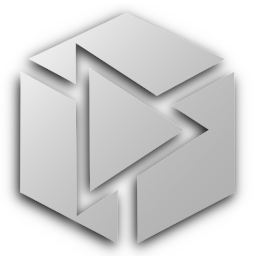
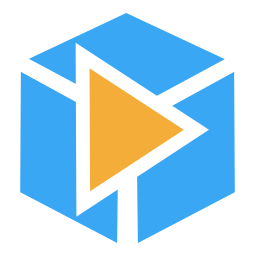
アイコンの更新、Runtimeの設定項目だけ追加

diff --git a/Runtime/EmotePrefab.cs b/Runtime/EmotePrefab.cs
@@ -1,7 +1,11 @@
 // <copyright file="EmotePrefab.cs"></copyright>
 
+#if UNITY_EDITOR
+
 using UnityEditor;
 using UnityEngine;
+using System.Collections.Generic;
+using VRC.SDK3.Dynamics.PhysBone.Components;
 
 namespace com.github.pandrabox.emoteprefab.runtime
 {
@@ -12,18 +16,21 @@ namespace com.github.pandrabox.emoteprefab.runtime
     [AddComponentMenu("Pan/EmotePrefab")]
     public class EmotePrefab : MonoBehaviour, VRC.SDKBase.IEditorOnly
     {
+        public bool IsOneShot;
+        public bool IsEmote;
+        public bool IsAFK;
+        public bool ViewAdvancedOptions;
+        public bool AnimateAllPhysBones;
+        public List<VRCPhysBone> AnimatePhysBones;
+        public bool ShrinkAllPhysBones;
+        public List<VRCPhysBone> ShrinkPhysBones;
+        public TransitionInfo ExitTransitionInfo;
+        public AnimationClip FakeWriteDefaultClip;
         [SerializeField]
         private AnimationClip _motion;
         [SerializeField]
         private string _name;
-        [SerializeField]
-        private bool _isOneShot;
-        [SerializeField]
-        private bool _isEmote;
-        [SerializeField]
-        private bool _isAFK;
 
-#if UNITY_EDITOR
         /// <summary>
         /// Emoteのファイル　設定時、名称とループ設定を自動初期化
         /// </summary>
@@ -39,13 +46,13 @@ namespace com.github.pandrabox.emoteprefab.runtime
                     if (_motion != null)
                     {
                         Name = _motion.name.Replace("proxy_stand_", string.Empty).Replace("proxy_", string.Empty);
-                        _isOneShot = !_motion.isLooping;
-                        _isEmote = true;
+                        IsOneShot = !_motion.isLooping;
+                        IsEmote = true;
                     }
                     else
                     {
                         Name = string.Empty;
-                        _isOneShot = false;
+                        IsOneShot = false;
                     }
 
                     EditorUtility.SetDirty(this);
@@ -70,80 +77,11 @@ namespace com.github.pandrabox.emoteprefab.runtime
             }
         }
 
-        /// <summary>
-        /// ExpressionMenuから選択時1回実行後終了するEmoteならばtrue, その他(ループやホールド)ならばFalse
-        /// </summary>
-        public bool IsOneShot
-        {
-            get => _isOneShot;
-            set
-            {
-                if (_isOneShot != value)
-                {
-                    _isOneShot = value;
-                    EditorUtility.SetDirty(this);
-                }
-            }
-        }
 
-        /// <summary>
-        /// ExpressionMenuから選択可能ならばtrue
-        /// </summary>
-        public bool IsEmote
-        {
-            get => _isEmote;
-            set
-            {
-                if (_isEmote != value)
-                {
-                    _isEmote = value;
-                    EditorUtility.SetDirty(this);
-                }
-            }
-        }
-
-        /// <summary>
-        /// AFKのさい選択される対象ならばtrue
-        /// </summary>
-        public bool IsAFK
-        {
-            get => _isAFK;
-            set
-            {
-                if (_isAFK != value)
-                {
-                    _isAFK = value;
-                    EditorUtility.SetDirty(this);
-                }
-            }
-        }
-
-        /// <summary>
-        /// EmotePrefabのGUIクラス
-        /// </summary>
-        [ExecuteInEditMode]
-        [CustomEditor(typeof(EmotePrefab))]
-        public class EmotePrefabEditor : UnityEditor.Editor, VRC.SDKBase.IEditorOnly
-        {
-            private EmotePrefab nowInstance;
-
-            /// <summary>
-            /// EmotePrefabのGUI
-            /// </summary>
-            public override void OnInspectorGUI()
-            {
-                nowInstance = (EmotePrefab)target;
-                nowInstance.Motion = (AnimationClip)EditorGUILayout.ObjectField("Motion", nowInstance.Motion, typeof(AnimationClip), false);
-                nowInstance.Name = EditorGUILayout.TextField("Name", nowInstance.Name);
-                nowInstance.IsOneShot = EditorGUILayout.Toggle("IsOneShot", nowInstance.IsOneShot);
-                nowInstance.IsEmote = EditorGUILayout.Toggle("IsEmote", nowInstance.IsEmote);
-                nowInstance.IsAFK = EditorGUILayout.Toggle("IsAFK", nowInstance.IsAFK);
-            }
-        }
-#endif
     }
 }
 
+#endif
 /* For Reviwer
     VRC.SDKBase.IEditorOnly is an official VRC interface. It is used to mark a script as editor-only.
     Please review this code in Japanese.

diff --git a/Editor/EmotePrefabEditor.cs b/Editor/EmotePrefabEditor.cs
@@ -1,0 +1,69 @@
+// <copyright file="EmotePrefabEditor.cs"></copyright>
+
+using System;
+using System.Collections.Generic;
+using System.Linq;
+using com.github.pandrabox.emoteprefab.editor;
+using com.github.pandrabox.emoteprefab.runtime;
+using nadena.dev.modular_avatar.core;
+using nadena.dev.modular_avatar.core.editor;
+using nadena.dev.ndmf;
+using UnityEditor;
+using UnityEditor.Animations;
+using UnityEngine;
+using VRC.SDK3.Avatars.Components;
+using VRC.SDK3.Dynamics.PhysBone.Components;
+using static com.github.pandrabox.emoteprefab.runtime.Generic;
+
+namespace com.github.pandrabox.emoteprefab.editor
+{
+    [CustomEditor(typeof(EmotePrefab))]
+    public class EmotePrefabEditor : Editor
+    {
+        public override void OnInspectorGUI()
+        {
+            serializedObject.Update();
+
+            var nowInstance = (EmotePrefab)target;
+            nowInstance.Motion = (AnimationClip)EditorGUILayout.ObjectField("Motion", nowInstance.Motion, typeof(AnimationClip), false);
+            nowInstance.Name = EditorGUILayout.TextField("Name", nowInstance.Name);
+            EditorGUILayout.PropertyField(serializedObject.FindProperty("IsOneShot"));
+            EditorGUILayout.PropertyField(serializedObject.FindProperty("IsEmote"));
+            EditorGUILayout.PropertyField(serializedObject.FindProperty("IsAFK"));
+
+            var spViewAdvancedOptions = serializedObject.FindProperty("ViewAdvancedOptions");
+            EditorGUILayout.PropertyField(spViewAdvancedOptions);
+            if (spViewAdvancedOptions.boolValue)
+            {
+                var spAnimateAllPhysBones = serializedObject.FindProperty("AnimateAllPhysBones");
+                EditorGUILayout.PropertyField(spAnimateAllPhysBones);
+                if (!spAnimateAllPhysBones.boolValue)
+                {
+                    EditorGUILayout.PropertyField(serializedObject.FindProperty("AnimatePhysBones"));
+                }
+
+                var spShrinkAllPhysBones = serializedObject.FindProperty("ShrinkAllPhysBones");
+                EditorGUILayout.PropertyField(spShrinkAllPhysBones);
+                if (!spShrinkAllPhysBones.boolValue)
+                {
+                    EditorGUILayout.PropertyField(serializedObject.FindProperty("ShrinkPhysBones"));
+                }
+
+                EditorGUILayout.PropertyField(serializedObject.FindProperty("ExitTransitionInfo"));
+                EditorGUILayout.PropertyField(serializedObject.FindProperty("FakeWriteDefaultClip"));
+
+            }
+            serializedObject.ApplyModifiedProperties();
+
+
+        }
+
+
+        // SceneビューのGizmo描画を抑制
+        [DrawGizmo(GizmoType.NotInSelectionHierarchy | GizmoType.Pickable)]
+        static void DrawGizmoForMyComponent(EmotePrefab component, GizmoType gizmoType)
+        {
+            // ここで何も描画しない、もしくはカスタムの描画ロジックを設定
+        }
+    }
+}

diff --git a/Runtime/TransitionInfo.cs b/Runtime/TransitionInfo.cs
@@ -1,26 +1,17 @@
 // <copyright file="TransitionInfo.cs"></copyright>
 
-using System;
-using System.Collections.Generic;
-using System.Linq;
-using com.github.pandrabox.emoteprefab.editor;
-using com.github.pandrabox.emoteprefab.runtime;
-using nadena.dev.modular_avatar.core;
-using nadena.dev.modular_avatar.core.editor;
-using nadena.dev.ndmf;
-using UnityEditor;
-using UnityEditor.Animations;
-using UnityEngine;
-using VRC.SDK3.Avatars.Components;
-using static com.github.pandrabox.emoteprefab.runtime.Generic;
+#if UNITY_EDITOR
 
 #pragma warning disable SA1401 // Fields should be private
 
-namespace com.github.pandrabox.emoteprefab.editor
+using System;
+
+namespace com.github.pandrabox.emoteprefab.runtime
 {
     /// <summary>
     /// Transitionパラメータを管理するクラス
     /// </summary>
+    [Serializable]
     public class TransitionInfo
     {
         public bool HasExitTime;
@@ -47,3 +38,5 @@ namespace com.github.pandrabox.emoteprefab.editor
         }
     }
 }
+
+#endif

diff --git a/README.md b/README.md
@@ -29,3 +29,5 @@
 -- モーションデータの作成に使用させて頂いています
 - [AvatarParametersDriver](https://github.com/Narazaka/AvatarParametersDriver)
 -- VRC_AvatarParametersDriverのコーディングの参考にさせて頂きました
+- [UnityのInspectorを拡張する。](https://qiita.com/sango/items/b705980ada56ba8ffa04)
+-- Inspector拡張の開発に参考にさせて頂きました
